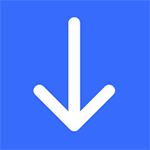
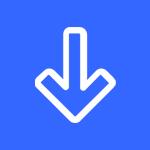
Iconos de Herramientas

diff --git a/herramientas.html b/herramientas.html
@@ -79,11 +79,104 @@
 					<div class="foto">
 						<img class="card-img-top" src="img/semaforo.png">
 						<div class="card-body">
-						   	<p class="card-text grado">Descargas</p>
+						   	<p class="card-text grado">Semáforo de Alerta</p>
+						</div>
+					</div>
+				</div>
+
+				<div class="card tarjeta" style="width: 15rem;">
+					<!-- FOTO -->
+					<div class="foto">
+						<img class="card-img-top" src="img/hidroestimador.png">
+						<div class="card-body">
+						   	<p class="card-text grado">Hidroestimador</p>
+						</div>
+					</div>
+				</div>
+				
+				<div class="card tarjeta" style="width: 15rem;">
+					<!-- FOTO -->
+					<div class="foto">
+						<img class="card-img-top" src="img/lluvias.png">
+						<div class="card-body">
+							   <p class="card-text grado">Lluvias</p>
+						</div>
+					</div>
+				</div>
+
+				<div class="card tarjeta" style="width: 15rem;">
+					<!-- FOTO -->
+					<div class="foto">
+						<img class="card-img-top" src="img/frecuencias.png">
+						<div class="card-body">
+							   <p class="card-text grado">Analizador de Frecuencias</p>
+						</div>
+					</div>
+				</div>
+
+				<div class="card tarjeta" style="width: 15rem;">
+					<!-- FOTO -->
+					<div class="foto">
+						<img class="card-img-top" src="img/pronostico.png">
+						<div class="card-body">
+							   <p class="card-text grado">Pronostico</p>
+						</div>
+					</div>
+				</div>
+
+				<div class="card tarjeta" style="width: 15rem;">
+					<!-- FOTO -->
+					<div class="foto">
+						<img class="card-img-top" src="img/aplicaiones.png">
+						<div class="card-body">
+							   <p class="card-text grado">Aplicaciones</p>
+						</div>
+					</div>
+				</div>
+
+				<div class="card tarjeta" style="width: 15rem;">
+					<!-- FOTO -->
+					<div class="foto">
+						<img class="card-img-top" src="img/interpolacion.png">
+						<div class="card-body">
+							   <p class="card-text grado">Interpolacion</p>
+						</div>
+					</div>
+				</div>
+
+				
+				<div class="card tarjeta" style="width: 15rem;">
+					<!-- FOTO -->
+					<div class="foto">
+						<img class="card-img-top" src="img/analizador.png">
+						<div class="card-body">
+							   <p class="card-text grado">Analizador de Tormentas</p>
+						</div>
+					</div>
+				</div>
+
+				<div class="card tarjeta" style="width: 15rem;">
+					<!-- FOTO -->
+					<div class="foto">
+						<img class="card-img-top" src="img/hietograma.png">
+						<div class="card-body">
+							   <p class="card-text grado">Hietograma</p>
+						</div>
+					</div>
+				</div>
+
+				<div class="card tarjeta" style="width: 15rem;">
+					<!-- FOTO -->
+					<div class="foto">
+						<img class="card-img-top" src="img/datos.png">
+						<div class="card-body">
+							   <p class="card-text grado">Tabla de Datos</p>
 						</div>
 					</div>
 				</div>
 			</div>
+
+			
 
 			<footer class="col-xs-12 col-sm-12 col-md-12 col-lg-12">
 				<div class="uno col-xs-12 col-sm-12 col-md-3 col-lg-3">
